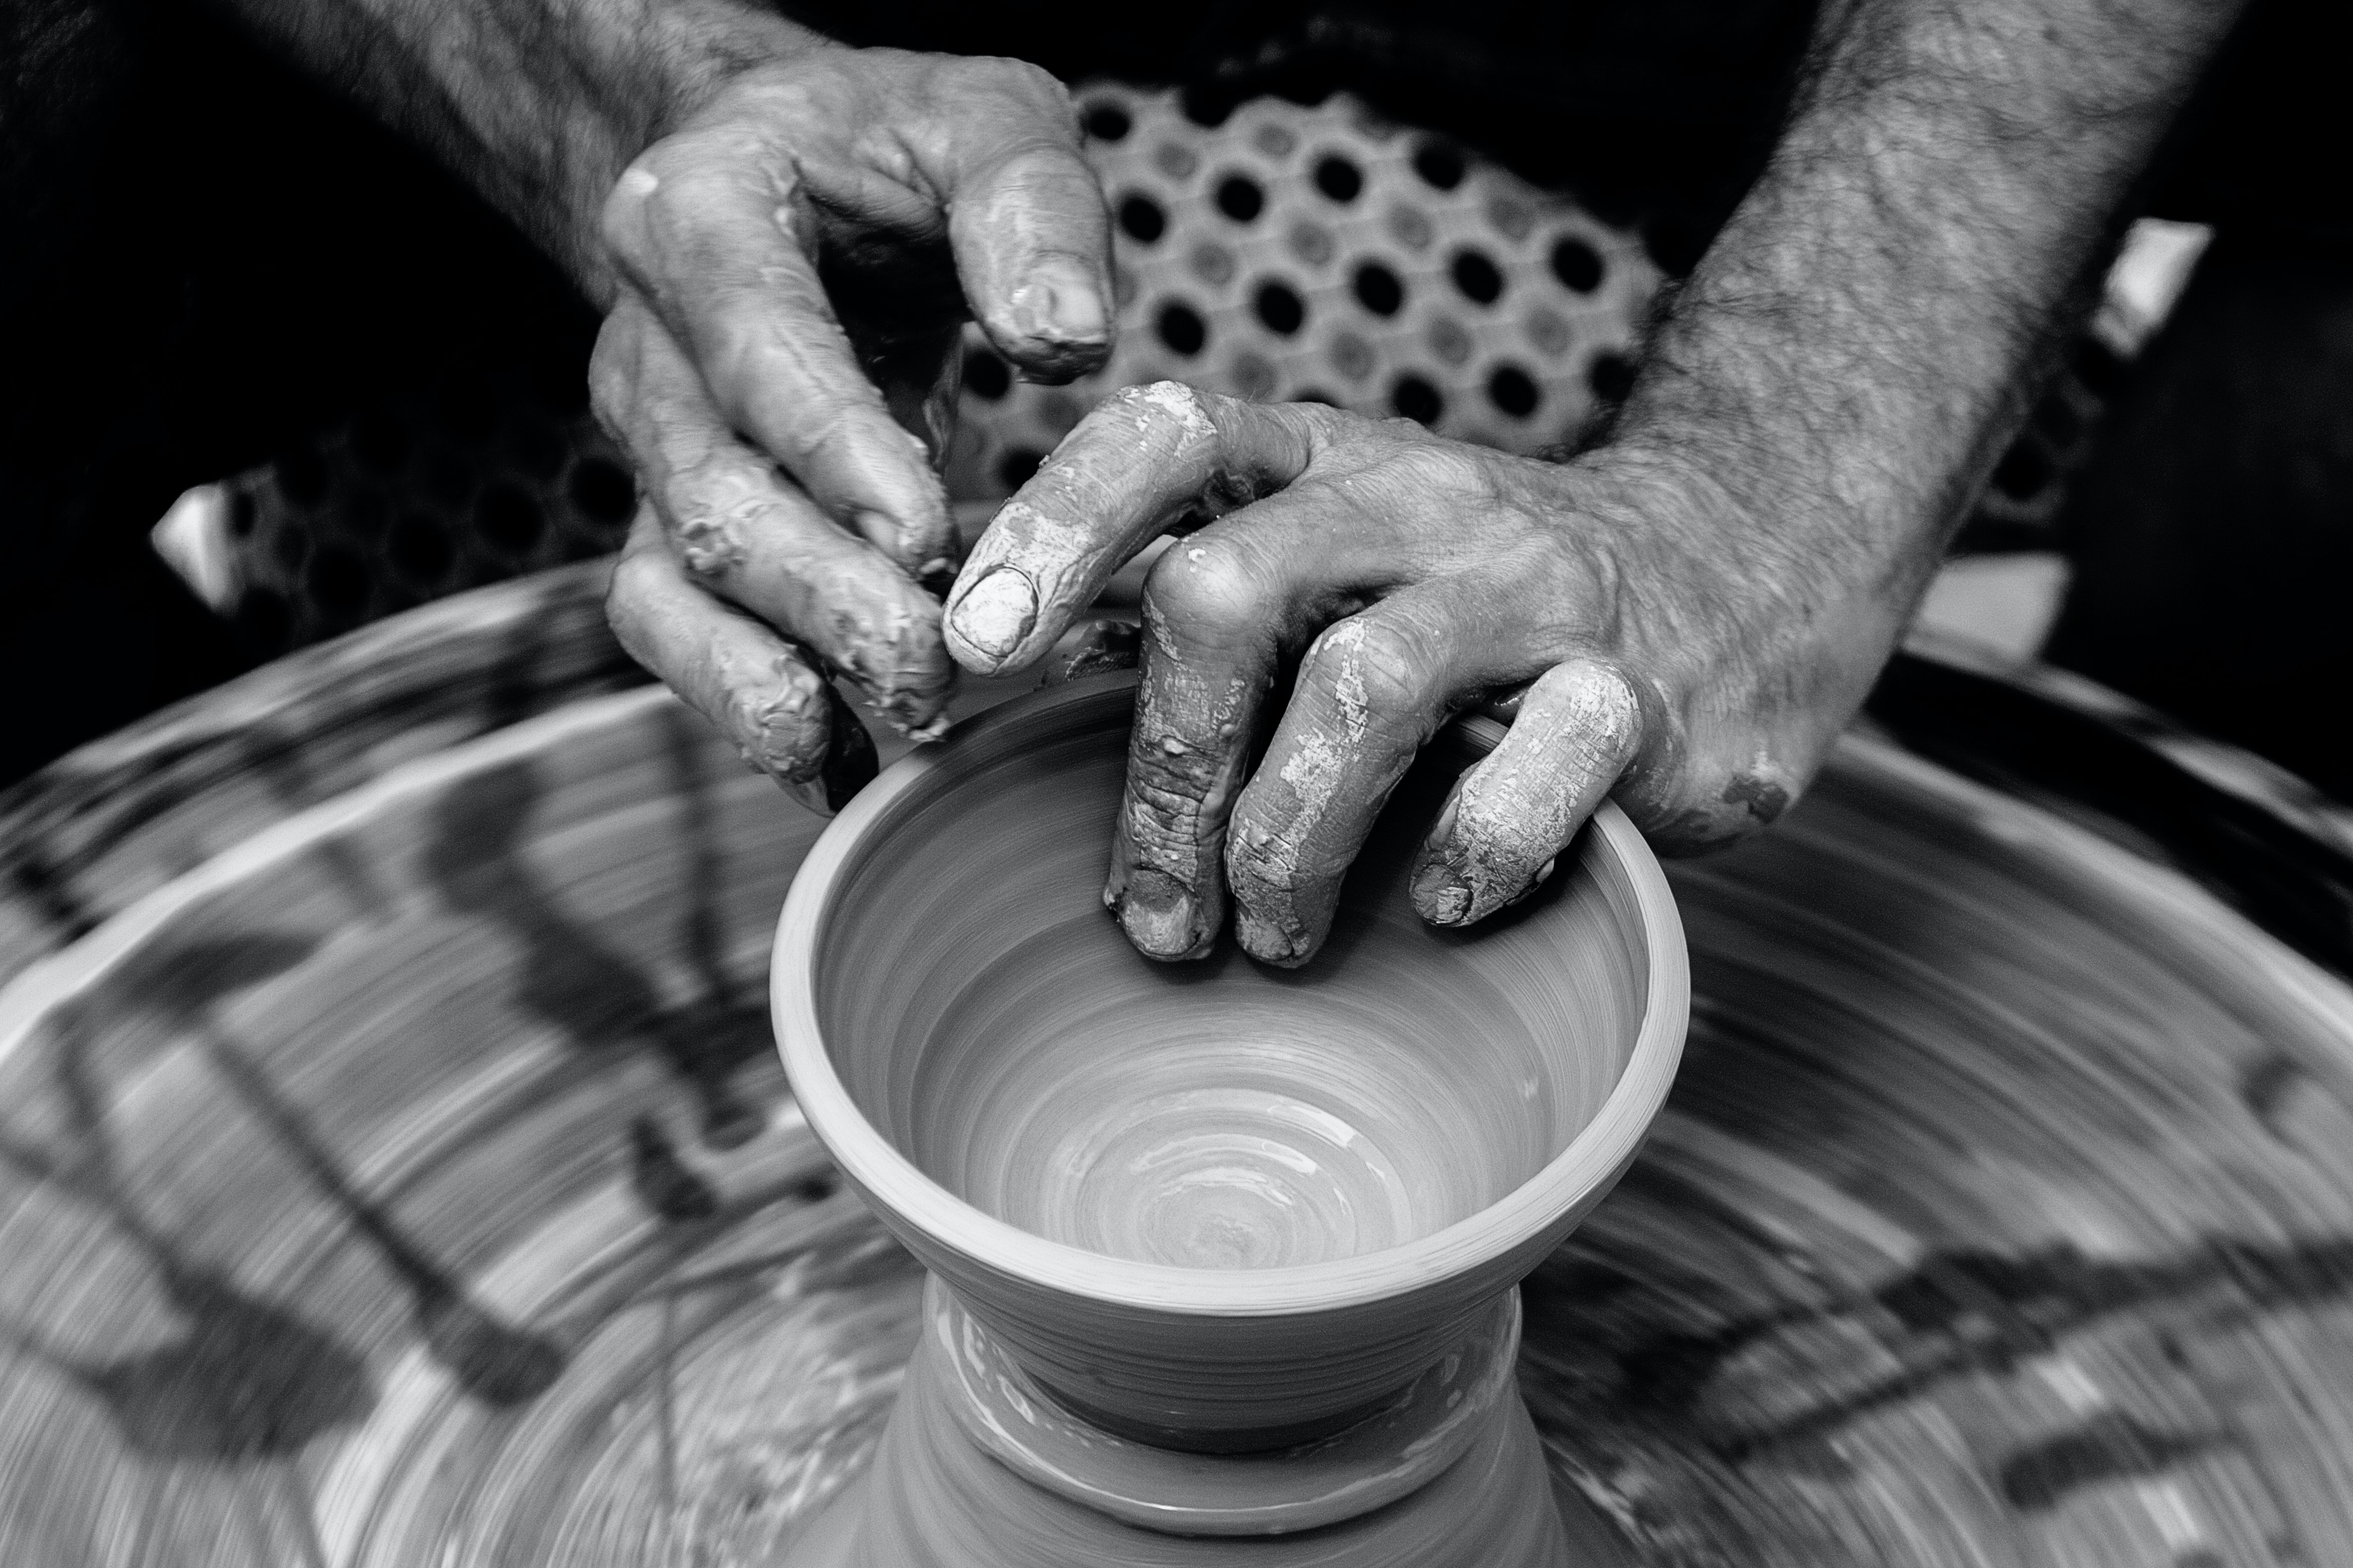
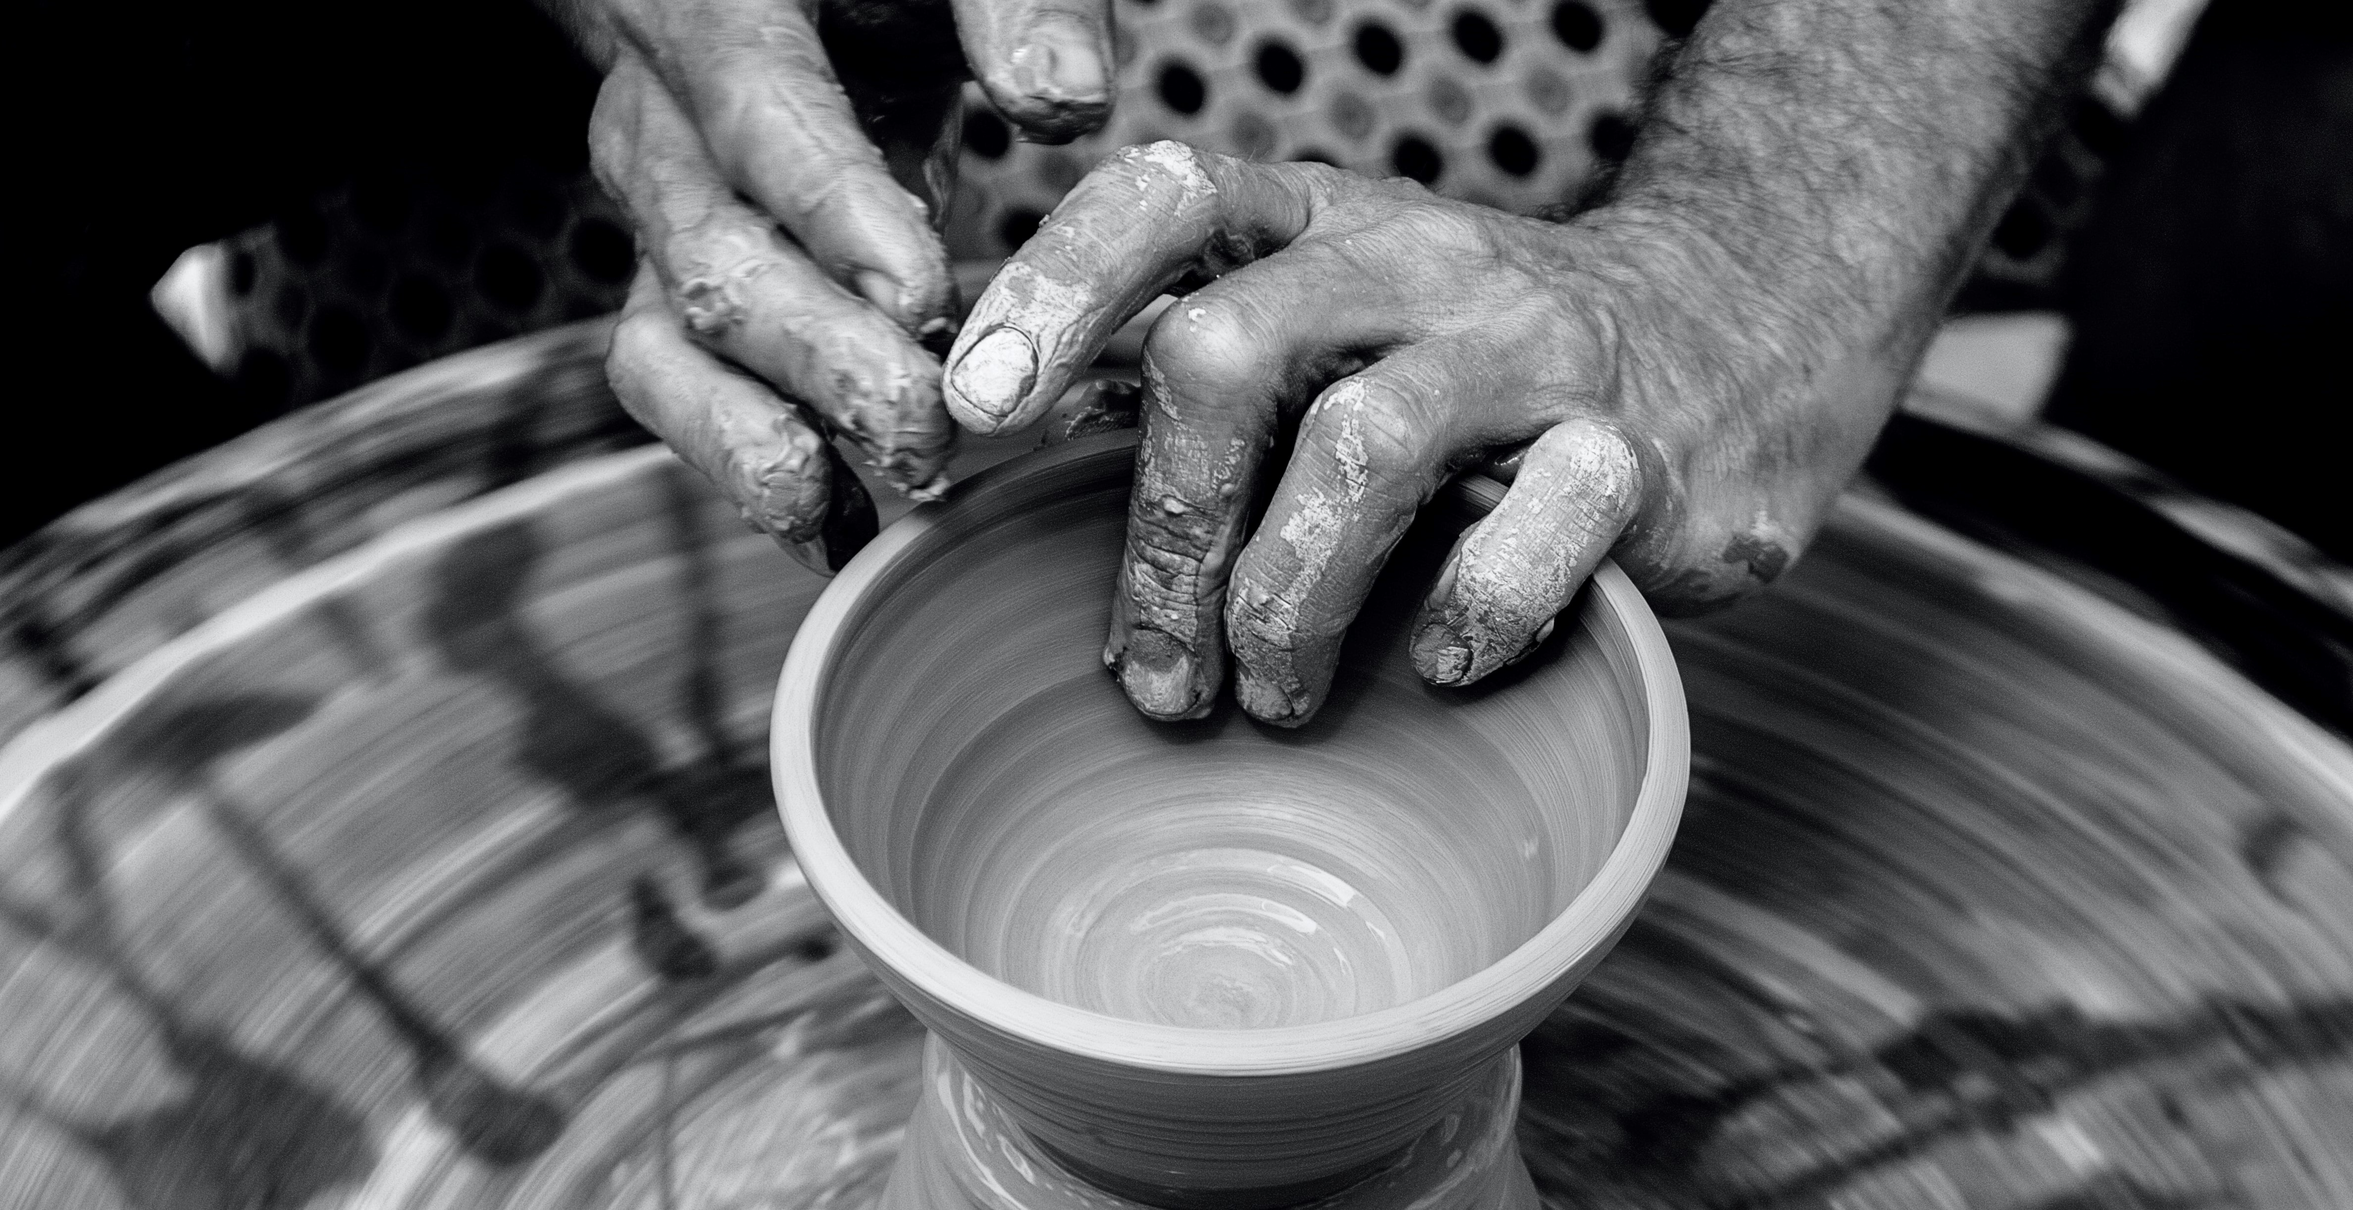
completed carousel item on landing page and added in text and links to other pages

diff --git a/home/templates/home/index.html b/home/templates/home/index.html
@@ -15,47 +15,54 @@
 {% block content %}
 
 <div id="carouselExampleCaptions" class="carousel slide" data-ride="carousel">
-  <ol class="carousel-indicators">
-    <li data-target="#carouselExampleCaptions" data-slide-to="0" class="active"></li>
-    <li data-target="#carouselExampleCaptions" data-slide-to="1"></li>
-    <li data-target="#carouselExampleCaptions" data-slide-to="2"></li>
-  </ol>
-  <div class="carousel-inner">
-    <div class="carousel-item active">
-      <img src="media/carousel-image-1.jpg" class="d-block w-100 img-fluid" alt="...">
-      <div class="carousel-caption d-none d-md-block">
-        <h5>First slide label</h5>
-        <p>Some representative placeholder content for the first slide.</p>
-      </div>
+    <ol class="carousel-indicators">
+        <li data-target="#carouselExampleCaptions" data-slide-to="0" class="active"></li>
+        <li data-target="#carouselExampleCaptions" data-slide-to="1"></li>
+        <li data-target="#carouselExampleCaptions" data-slide-to="2"></li>
+    </ol>
+
+    <div class="carousel-inner">
+
+        <div class="carousel-item active">
+            <img src="media/carousel-image-3.jpg" class="d-block w-100 img-fluid" alt="...">
+            <div class="carousel-caption d-none d-md-block">
+                <h5>Shop our amazing range of handmade ceramics</h5>
+                <a href="{% url 'products' %}" class="btn btn-lg carousel-button">Shop Now</a>
+            </div>
+        </div>
+
+        <div class="carousel-item ">
+            <img src="media/carousel-image-1.jpg" class="d-block w-100 img-fluid" alt="...">
+            <div class="carousel-caption d-none d-md-block">
+                <h5>Discover the art of ceramics</h5>
+                <a href="{% url 'blog' %}" class="btn btn-lg carousel-button">Read our blog</a>
+            </div>
+        </div>
+
+        <div class="carousel-item">
+            <img src="media/carousel-image-2.jpg" class="d-block w-100 img-fluid" alt="...">
+            <div class="carousel-caption d-none d-md-block">
+                <h5>Ceramic courses</h5>
+                <p>Learn the ancient craft of ceramics</p>
+                <a href="" class="btn btn-lg carousel-button">Book Now</a>
+            </div>
+        </div>
+        
     </div>
-    <div class="carousel-item">
-      <img src="media/carousel-image-2.jpg" class="d-block w-100 img-fluid" alt="...">
-      <div class="carousel-caption d-none d-md-block">
-        <h5>Second slide label</h5>
-        <p>Some representative placeholder content for the second slide.</p>
-      </div>
-    </div>
-    <div class="carousel-item">
-      <img src="media/carousel-image-3.jpg" class="d-block w-100 img-fluid" alt="...">
-      <div class="carousel-caption d-none d-md-block">
-        <h5>Third slide label</h5>
-        <p>Some representative placeholder content for the third slide.</p>
-      </div>
-    </div>
-  </div>
-  <a class="carousel-control-prev" href="#carouselExampleCaptions" role="button" data-slide="prev">
-    <span class="carousel-control-prev-icon" aria-hidden="true"></span>
-    <span class="sr-only">Previous</span>
-  </a>
-  <a class="carousel-control-next" href="#carouselExampleCaptions" role="button" data-slide="next">
-    <span class="carousel-control-next-icon" aria-hidden="true"></span>
-    <span class="sr-only">Next</span>
-  </a>
+
+    <a class="carousel-control-prev" href="#carouselExampleCaptions" role="button" data-slide="prev">
+        <span class="carousel-control-prev-icon" aria-hidden="true"></span>
+        <span class="sr-only">Previous</span>
+    </a>
+    <a class="carousel-control-next" href="#carouselExampleCaptions" role="button" data-slide="next">
+        <span class="carousel-control-next-icon" aria-hidden="true"></span>
+        <span class="sr-only">Next</span>
+    </a>
 </div>
 
 <script>
     $('.carousel').carousel({
-        interval: 5000
+        interval: 6000
     })
 </script>
 

diff --git a/static/css/base.css b/static/css/base.css
@@ -3,9 +3,7 @@ html{
 }
 
 body{
-    /* background: url('/media/landing-page.jpg') no-repeat center center fixed; */
-    /* background-size: cover; */
-    /* height: calc(100vh - 164px); */
+    background-color: #fafafa;
     color: black;
 }
 
@@ -19,6 +17,10 @@ p{
 
 .center-align{
     text-align: center;
+}
+
+header{
+    background-color: #fafafa !important;
 }
 
 /* Navbar */
@@ -42,7 +44,7 @@ p{
     width: fit-content;
 }
 
-.shop-now-button {
+.carousel-button {
     background: black;
     color: white;
     min-width: 160px;
@@ -130,8 +132,13 @@ a.back-to-top {
 
 /* Landing Page */
 
+.carousel{
+    height: 32rem;
+    width: 100%;
+}
+
 .carousel-inner{
-    height: 45rem;
+    height: 32rem;
     overflow: hidden;
     position: relative;
     align-items: center;
@@ -139,13 +146,15 @@ a.back-to-top {
 }
 
 .carousel-inner img{
-    height: 45rem;
+    height: 32rem;
     width: 100%;
 }
 
-.carousel-caption{
-    z-index: 999;
+.carousel-caption a{
+    margin-top: 1rem;
 }
+
+
 
 /* Products Page */
 
@@ -171,6 +180,12 @@ a.back-to-top {
 /* Media Queries */
 
 /* Slightly larger container on XL screens */
+
+@media (min-width:1500px){
+    .carousel, .carousel-inner, .carousel-inner img{
+        height: 40rem;
+    }
+}
 
 @media(min-width:1200px){
     .container{

diff --git a/templates/base.html b/templates/base.html
@@ -49,9 +49,9 @@
 
 <body>
 
-    <header class="container-fluid fixed-top">
+    <header class="container-fluid fixed-top bg-white">
         <a href="#" id="back-to-top" class="back-to-top" style="display: inline;"><i class="fas fa-angle-up"></i></a>
-        <div id="topnav" class="row bg-white pt-lg-2 d-none d-lg-flex">
+        <div id="topnav" class="row pt-lg-2 d-none d-lg-flex">
             <div class="col-12 col-lg-4 my-auto py-1 py-lg-0 text-center text-lg-left">
                 <a href="{% url 'home' %}" class="nav-link main-logo-link">
                     <h2 class="logo-font text-black my-0"><strong>Tōki</strong></h2>
